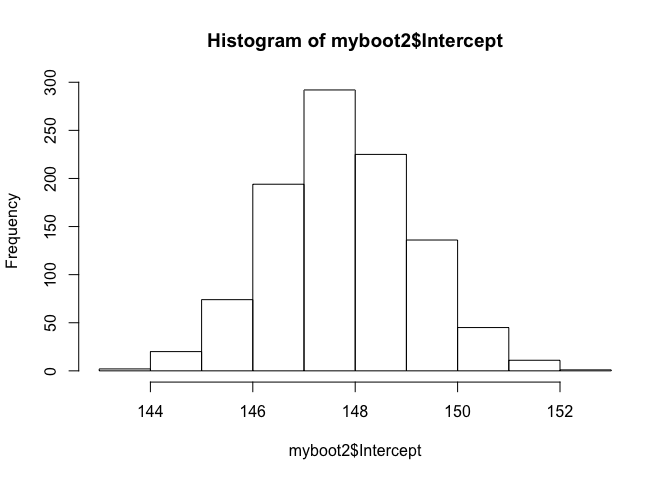
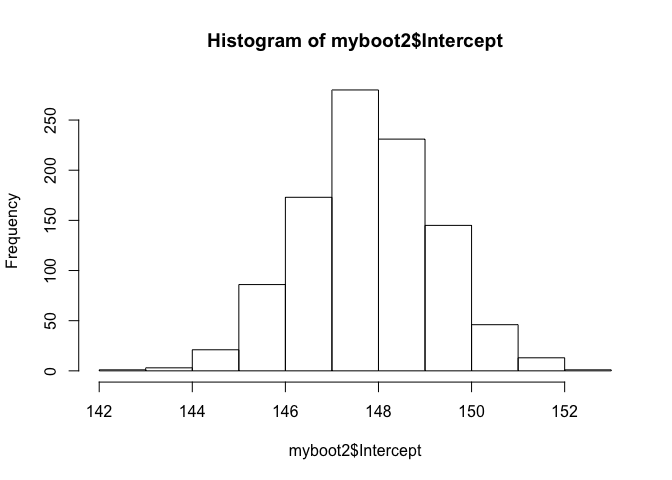
creatinine example

diff --git a/teaching/r/creatinine/creatinine_bootstrap.md b/teaching/r/creatinine/creatinine_bootstrap.md
@@ -1,5 +1,5 @@
 ---
-layout: page
+layout: post
 ---
 
 Approximating the sampling distribution by bootstrapping
@@ -75,36 +75,36 @@ command.
     bootstrapped_sample = sample(creatinine, size = 157, replace=TRUE)
     head(bootstrapped_sample, 20)
 
-    ##     age creatclear orig.ids
-    ## 95   25      139.7       95
-    ## 120  25      133.1      120
-    ## 139  27      129.8      139
-    ## 58   18      143.8       58
-    ## 18   34      128.6       18
-    ## 69   62      102.3       69
-    ## 138  23      119.9      138
-    ## 81   44      121.2       81
-    ## 22   31      122.4       22
-    ## 47   36      133.5       47
-    ## 39   32      132.7       39
-    ## 125  24      129.6      125
-    ## 129  29      128.2      129
-    ## 152  70       95.8      152
-    ## 144  45      117.8      144
-    ## 146  19      120.0      146
-    ## 93   21      135.9       93
-    ## 133  43      123.2      133
-    ## 113  63      112.5      113
-    ## 42   23      131.6       42
+    ##     age creatclear orig.id
+    ## 19   27      132.8      19
+    ## 148  25      123.0     148
+    ## 115  54      113.9     115
+    ## 103  27      132.0     103
+    ## 138  23      119.9     138
+    ## 79   23      136.2      79
+    ## 20   71      105.5      20
+    ## 43   24      142.9      43
+    ## 64   63      114.6      64
+    ## 61   22      124.0      61
+    ## 122  41      121.5     122
+    ## 8    73      103.0       8
+    ## 95   25      139.7      95
+    ## 12   24      128.6      12
+    ## 58   18      143.8      58
+    ## 25   28      126.8      25
+    ## 73   65       89.3      73
+    ## 23   23      131.2      23
+    ## 121  57      113.4     121
+    ## 74   51      110.4      74
 
 If you look carefully, you may see a repeated entry in these first 20
 rows. That's because our bootstrapped sample is a sample with
 replacement from the original sample. You can visualize the pattern of
 ties and omissions with the following plot:
 
-    plot(table(bootstrapped_sample$orig.ids))
+    plot(table(bootstrapped_sample$orig.id))
 
-![](creatinine_bootstrap_files/figure-markdown_strict/unnamed-chunk-5-1.png)
+![](creatinine_bootstrap_files/figure-markdown_strict/unnamed-chunk-5-1.png)<!-- -->
 
 The height of each bar shows how many times that original data point was
 picked. The gaps show data points that were omitted.
@@ -116,9 +116,9 @@ patterns of ties and omissions that arise in each bootstrapped sample.
 
     # same as sample(creatinine, size = 157, replace=TRUE)
     bootstrapped_sample = resample(creatinine)  
-    plot(table(bootstrapped_sample$orig.ids))
+    plot(table(bootstrapped_sample$orig.id))
 
-![](creatinine_bootstrap_files/figure-markdown_strict/unnamed-chunk-6-1.png)
+![](creatinine_bootstrap_files/figure-markdown_strict/unnamed-chunk-6-1.png)<!-- -->
 
 ### Bootstrapping the sample mean
 
@@ -140,7 +140,7 @@ different sample means you get for each bootstrapped sample.
     bootstrapped_sample = resample(creatinine)
     mean(bootstrapped_sample$creatclear)
 
-    ## [1] 124.7917
+    ## [1] 124.6592
 
 The final trick is to use the `do` command to automatic the process of
 taking repeated bootstrapped samples and computing the sample mean for
@@ -152,16 +152,16 @@ each one.
     }
 
     ##      result
-    ## 1  124.8745
-    ## 2  127.0350
-    ## 3  124.9299
-    ## 4  125.6752
-    ## 5  125.0191
-    ## 6  125.6076
-    ## 7  125.4535
-    ## 8  125.4682
-    ## 9  124.1707
-    ## 10 124.5783
+    ## 1  124.0675
+    ## 2  125.4312
+    ## 3  125.9962
+    ## 4  127.9217
+    ## 5  125.4713
+    ## 6  125.7452
+    ## 7  124.8115
+    ## 8  125.9662
+    ## 9  125.1796
+    ## 10 125.1981
 
 If this looks unfamiliar, try revisiting the ["Gone
 fishing"](http://jgscott.github.io/teaching/r/gonefishing/gonefishing.html)
@@ -178,11 +178,11 @@ sample mean for each one and visualize the results.
     # Visualize the sampling distribution and compute the bootstrapped standard error
     hist(myboot$result)
 
-![](creatinine_bootstrap_files/figure-markdown_strict/unnamed-chunk-9-1.png)
+![](creatinine_bootstrap_files/figure-markdown_strict/unnamed-chunk-9-1.png)<!-- -->
 
     sd(myboot$result)
 
-    ## [1] 0.9907289
+    ## [1] 0.9462928
 
 Because we have different bootstrapped samples, your histogram and
 estimated standard error will look slightly different from mine. But
@@ -214,7 +214,7 @@ the relationship between creatinine clearance rate and age:
 
     abline(lm1)
 
-![](creatinine_bootstrap_files/figure-markdown_strict/unnamed-chunk-10-1.png)
+![](creatinine_bootstrap_files/figure-markdown_strict/unnamed-chunk-10-1.png)<!-- -->
 
 Let's warm-up by computing the OLS estimator for a single bootstrapped
 sample. Try executing this code block 5-10 different times:
@@ -228,7 +228,7 @@ sample. Try executing this code block 5-10 different times:
     ## 
     ## Coefficients:
     ## (Intercept)          age  
-    ##    145.8344      -0.5667
+    ##    147.7911      -0.6039
 
 Notice how the slope and intercept of the fitted line change for each
 sample.
@@ -244,13 +244,13 @@ command to automate the whole process and save the result.
     # Inspect the first several lines
     head(myboot2)
 
-    ##   Intercept        age    sigma r.squared        F
-    ## 1  146.3874 -0.5949259 7.349727 0.6366280 271.5601
-    ## 2  146.5769 -0.5885913 6.848672 0.6077806 240.1869
-    ## 3  147.0285 -0.6098881 6.864993 0.6616170 303.0608
-    ## 4  147.4192 -0.6291794 6.969385 0.6259461 259.3787
-    ## 5  148.5842 -0.6448014 7.029900 0.6859843 338.6058
-    ## 6  146.3252 -0.5841131 6.653937 0.6304692 264.4509
+    ##   Intercept        age    sigma r.squared        F numdf dendf
+    ## 1  145.0474 -0.5397870 6.528623 0.6062594 238.6602     1   155
+    ## 2  148.8132 -0.6324065 6.373743 0.7178894 394.4299     1   155
+    ## 3  148.2369 -0.6137878 7.304570 0.6550942 294.3981     1   155
+    ## 4  147.4649 -0.6052031 6.057047 0.7441424 450.8057     1   155
+    ## 5  148.0294 -0.6316402 7.501825 0.6822983 332.8790     1   155
+    ## 6  147.6815 -0.6113110 6.590104 0.6758277 323.1409     1   155
 
 Notice that we have separate columns for the intercept, slope on the age
 variable, sigma (the residual standard deviation), and R-squared. (Don't
@@ -259,19 +259,19 @@ distributions for the intercept and slope.
 
     hist(myboot2$Intercept)
 
-![](creatinine_bootstrap_files/figure-markdown_strict/unnamed-chunk-13-1.png)
+![](creatinine_bootstrap_files/figure-markdown_strict/unnamed-chunk-13-1.png)<!-- -->
 
     sd(myboot2$Intercept)
 
-    ## [1] 1.393358
+    ## [1] 1.445293
 
     hist(myboot2$age)
 
-![](creatinine_bootstrap_files/figure-markdown_strict/unnamed-chunk-13-2.png)
+![](creatinine_bootstrap_files/figure-markdown_strict/unnamed-chunk-13-2.png)<!-- -->
 
     sd(myboot2$age)
 
-    ## [1] 0.03712744
+    ## [1] 0.03723882
 
 ### Confidence intervals
 
@@ -289,12 +289,12 @@ endpoints on the plot.
     myinterval = quantile(myboot2$age, probs=c(0.1, 0.9))
     abline(v = myinterval, col='blue')
 
-![](creatinine_bootstrap_files/figure-markdown_strict/unnamed-chunk-14-1.png)
+![](creatinine_bootstrap_files/figure-markdown_strict/unnamed-chunk-14-1.png)<!-- -->
 
     myinterval
 
     ##        10%        90% 
-    ## -0.6691491 -0.5711980
+    ## -0.6665540 -0.5723913
 
 We would refer to this interval as an 80% confidence interval for the
 slope of the age variable in our regression model. (As above, your
@@ -313,18 +313,20 @@ for all model parameters:
 
     confint(myboot2, level=0.8)
 
+    ## Warning: confint: Using df=Inf.
+
     ##        name       lower       upper level method    estimate
-    ## 1 Intercept 145.9965686 149.5678883   0.8 stderr 147.7822285
-    ## 2       age  -0.6664781  -0.5713167   0.8 stderr  -0.6188974
-    ## 3     sigma   6.3963693   7.3316052   0.8 stderr   6.8639873
-    ## 4 r.squared   0.6151126   0.7222152   0.8 stderr   0.6686639
-    ## 5         F 243.1687314 397.3969785   0.8 stderr 320.2828549
+    ## 1 Intercept 145.9438823 149.6483186   0.8 stderr 147.8129158
+    ## 2       age  -0.6673584  -0.5719115   0.8 stderr  -0.6198159
+    ## 3     sigma   6.3841670   7.3367439   0.8 stderr   6.9105379
+    ## 4 r.squared   0.6224707   0.7236303   0.8 stderr   0.6724361
+    ## 5         F 250.7264505 401.4040296   0.8 stderr 318.1901588
     ##   margin.of.error
-    ## 1      1.78565986
-    ## 2      0.04758073
-    ## 3      0.46761796
-    ## 4      0.05355127
-    ## 5     77.11412359
+    ## 1      1.85221814
+    ## 2      0.04772347
+    ## 3      0.47628841
+    ## 4      0.05057979
+    ## 5     75.33878957
 
 You will notice that this gives a slightly different answer to the
 confidence interval we calculated from the quantiles, above. That's
